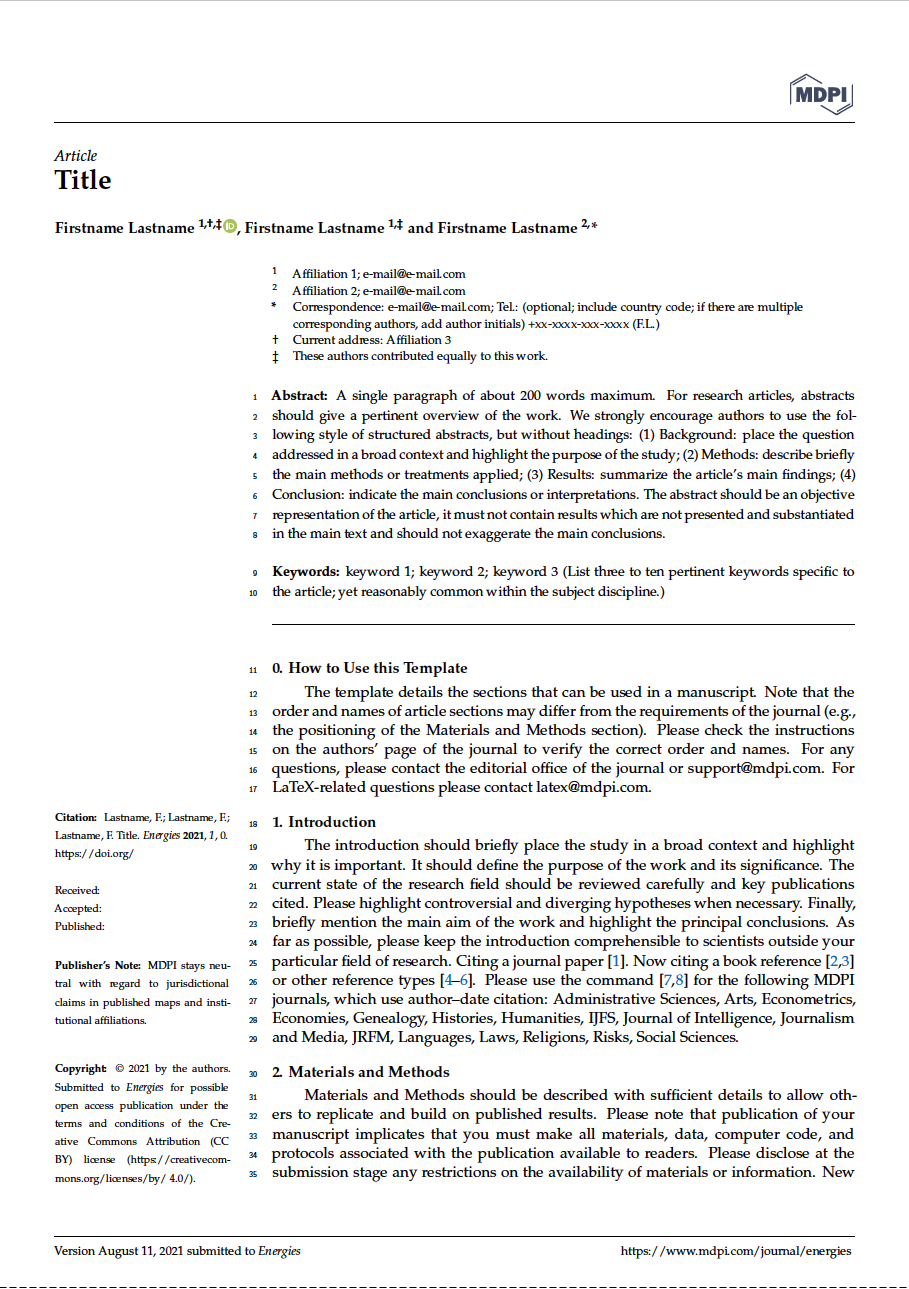
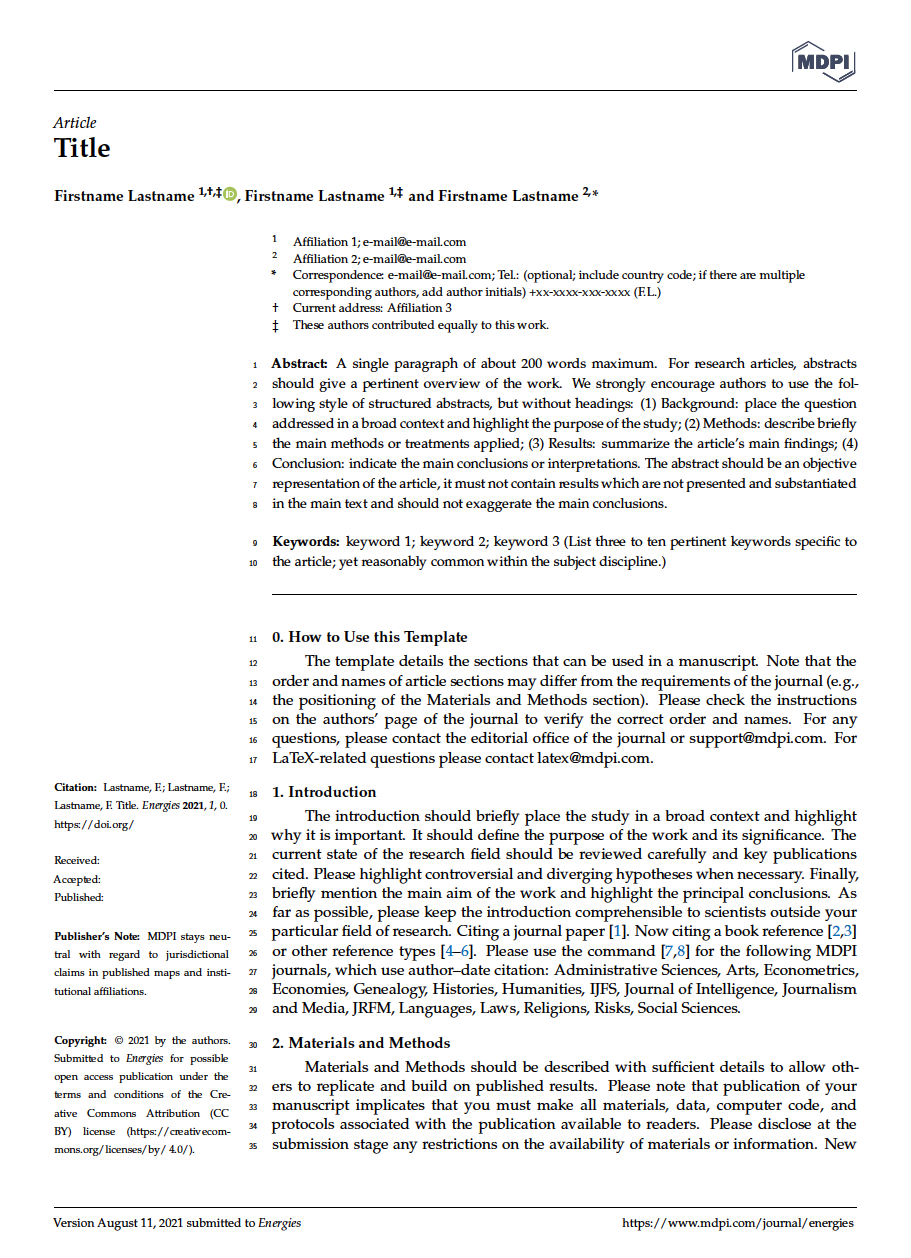
fixes and better thumbnail size

diff --git a/latex/mdpi_energies/template.tex b/latex/mdpi_energies/template.tex
@@ -116,16 +116,20 @@
 [# endif #]
 [# endif #]
 [# endfor #]
-}[# if doc.authors|selectattr("affiliation")|list|length == 1 #][1][# endif #]
+[# if doc.authors|selectattr("affiliation")|list|length == 1 #][1][# endif #]
+}
 
 % Contact information of the corresponding author
 [# if options.corresponding_author#]
-[# for author in doc.authors #]
+[# set count = [1] #]
+[# set total = doc.authors|selectattr("is_corresponding")|list|length #]
+\corres{Correspondence: [# for author in doc.authors #]
 [# set initials = author.name.upper().split(' ')|map("list")|map("first")|join('.')+"." #]
 [# if author.is_corresponding #]
-\corres{Correspondence: [-author.email-][# if doc.authors|selectattr("is_corresponding")|list|length > 1 #]; ([-initials-])[# endif #]}
+[-author.email-][# if total > 1 #]; ([-initials-])[# if count|length < total #], [# endif #][# endif #]
+[# set __ = count.append(1) #]
 [# endif #]
-[# endfor #]
+[# endfor #]}
 [# endif #]
 % Current address and/or shared authorship
 
@@ -147,7 +151,7 @@
 [# endif #]
 
 % Keywords
-\keyword{[-doc.tags-]}
+\keyword{[-doc.tags|join("; ")-]}
 
 % The fields PACS, MSC, and JEL may be left empty or commented out if not applicable
 %\PACS{J0101}
@@ -165,7 +169,7 @@
 % Only for the journal Applied Sciences:
 % TODO if options.journal_name == "appliedsciences" and tagged.feature_application
 [# if tagged.feature_application #]
-\featuredapplication{tagged.feature_application}
+\featuredapplication{[-tagged.feature_application-]}
 [# endif #]
 %%%%%%%%%%%%%%%%%%%%%%%%%%%%%%%%%%%%%%%%%%
 
